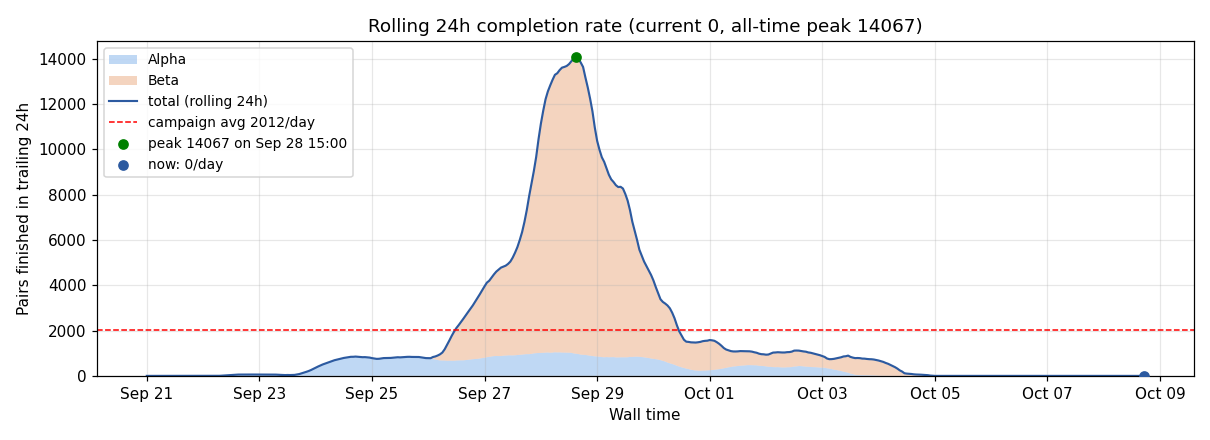
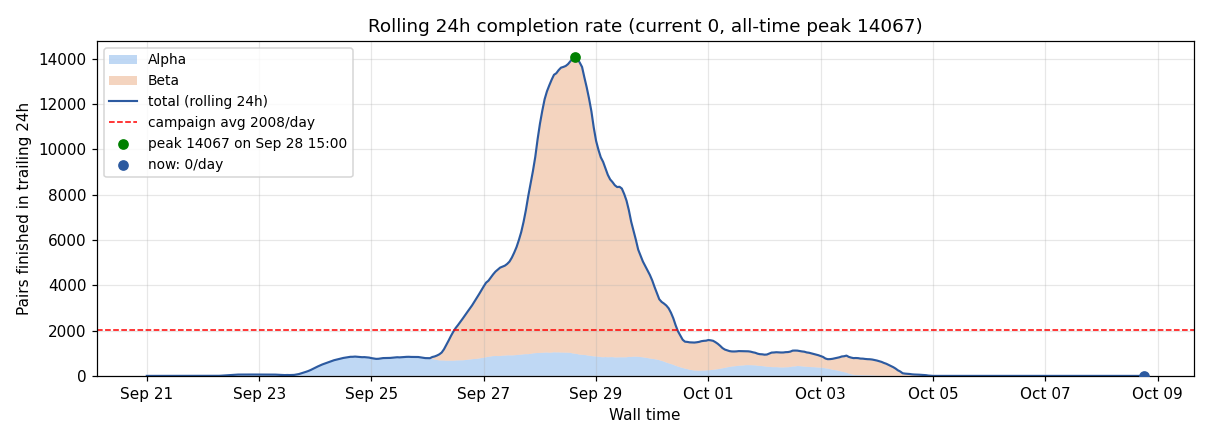
auto: 2026-10-08 17:01:57

diff --git a/index.html b/index.html
@@ -24,7 +24,7 @@ tr:nth-child(even) { background: #fafafa; }
 </style>
 </head><body>
 <h1>AF3 Campaign Dashboard</h1>
-<p class="stamp">Last updated: <strong>2026-10-08 16:01 EDT</strong> · regenerated on the cluster hourly · this page auto-reloads every 30 min</p>
+<p class="stamp">Last updated: <strong>2026-10-08 17:03 EDT</strong> · regenerated on the cluster hourly · this page auto-reloads every 30 min</p>
 
 <div class="cards">
   <div class="card"><div class="v">35,750</div><div class="l">Total COMPLETED pairs</div></div>
@@ -38,7 +38,7 @@ tr:nth-child(even) { background: #fafafa; }
 </div>
 
 <h2>Beta (GB200) jobs</h2>
-<p class='stamp'>Beta snapshot 6 min old (refreshed every 10 min from the Beta login node).</p>
+<p class='stamp'>Beta snapshot 8 min old (refreshed every 10 min from the Beta login node).</p>
 <div class="queue-table">
 <table><thead><tr><th>Job</th><th>State</th><th>Elapsed</th><th>Left</th><th>Pairs done</th><th>Node / reason</th></tr></thead>
 <tbody><tr><td colspan=6><em>none</em></td></tr></tbody></table>
